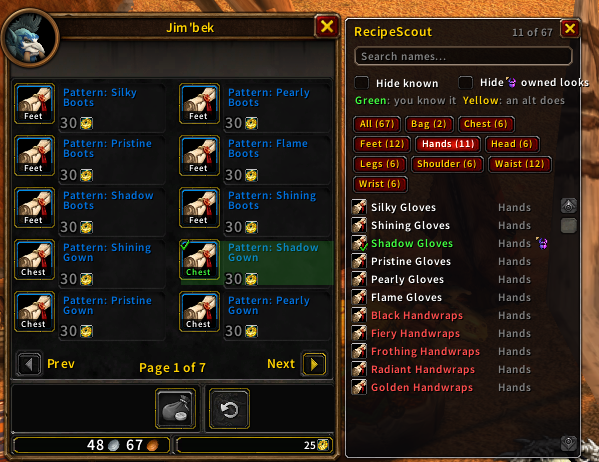
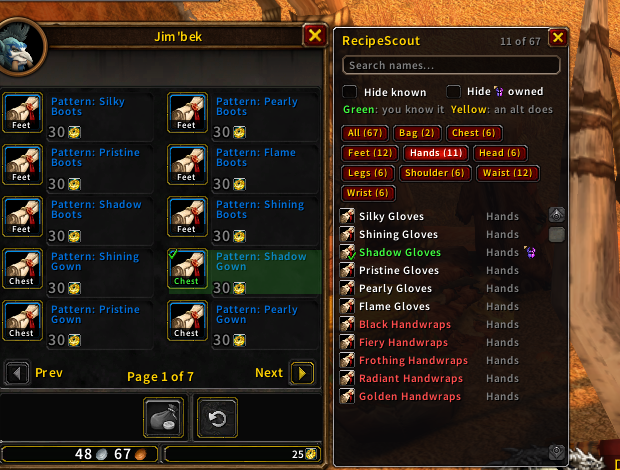
Release 0.3.0

diff --git a/PLAN.md b/PLAN.md
@@ -59,7 +59,7 @@ The hard part is finding which item a recipe makes, and its slot, without a big 
 - [x] **In-game check of alts:** first try failed (2026-11-23): Jhon Dicc saw no yellow at Jim'bek. Saved file had Durga's skills (Tailoring 111, Enchanting 105 via `GetProfessions`) but no recipes (`profs = {}`), and realm saved as "" (`Durga-`). Added: every scan saves what each profession API answered to `RecipeScoutDB.lastScan` (`/rs debug`), classic Craft API path (Enchanting), `GetNormalizedRealmName` fallback and moving a `Name-` record once the realm is known. Next: Durga opens Tailoring and Enchanting, `/reload`, agent reads the saved file
   Second try works (2026-11-23): Forever uses the modern API (`C_TradeSkillUI`, 262 recipe IDs for Enchanting, `ProfessionsFrame`); Jhon Dicc sees Shadow Gown and Shadow Circle in yellow. Realm stays "" on Forever (both realm APIs empty); keys still match
 - [x] **Appearance collected:** probe data (Jim'bek): 64 gear recipes carry "You haven't collected this appearance", the one gear recipe without it is known (Shadow Gloves, most likely crafted), no positive "collected" line ever. Rule: transmoggable gear whose slot line loaded and has no "haven't collected" line = collected. Transmog icon on the merchant icon and panel row, "Hide owned looks" in the panel, `/rs` says "look owned" (2026-11-23)
-- [x] **In-game check of appearances:** transmog icon (`Interface\\CURSOR\\Transmogrify`) renders; only Shadow Gloves among Jim'bek's Hands gets it; Hide owned looks 11 → 10; label overflowed the panel edge, shortened to "Hide [icon] owned" with hover tooltips on both checkboxes (2026-11-23, maintainer screenshots)
+- [x] **In-game check of appearances:** transmog icon (`Interface\\CURSOR\\Transmogrify`) renders; only Shadow Gloves among Jim'bek's Hands gets it; Hide owned looks 11 → 10; label overflowed the panel edge, shortened to "Hide [icon] owned" with hover tooltips on both checkboxes; shortened label checked in-game (2026-11-23, maintainer screenshots)
 - [x] **Release 0.3.0:** appearances, screenshot `appearances.png` and an Appearances section in the description; tag `v0.3.0` (2026-11-23)
 - [ ] **Settings panel and addon compartment:** same pattern as DistanceToTarget
 
